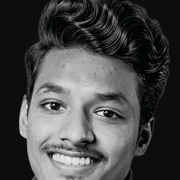
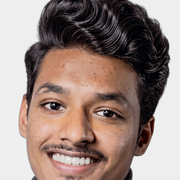
Switch portrait to the colour headshot everywhere
- seam-portrait.webp: background removed, 700px wide, lower edge faded
  in the file (hero on desktop, contact on mobile)
- favicon.png/.ico, favicon-192.png, apple-touch-icon.png: face crop on
  the site's light grey
- og-image.jpg: preview card re-rendered with the colour cut-out
- AGENTS.md: describe the source photo as a colour headshot

Claude-Session: https://claude.ai/code/session_01BgUoZHnXC1HSnGXGqqa1qu

diff --git a/AGENTS.md b/AGENTS.md
@@ -1,3 +1,3 @@
 # Project Rules
 
-- The hero portrait is a background-removed WebP at `src/assets/seam-portrait.webp` with its lower edge faded out in the file itself, and it must never be framed or show its original light-grey studio background. On desktop (lg and up) it stays anchored to the bottom edge of the `#home` section; below that it is hidden in the hero and instead shown once in the `#contact` section, directly after the "Let's Connect" heading. Why: the source photo is a black-and-white headshot on a light grey studio background, so any framed or un-faded placement reads as a bright rectangle pasted onto the near-black page, and small framed placements in the hero read poorly on phones.
+- The hero portrait is a background-removed WebP at `src/assets/seam-portrait.webp` with its lower edge faded out in the file itself, and it must never be framed or show its original light-grey studio background. On desktop (lg and up) it stays anchored to the bottom edge of the `#home` section; below that it is hidden in the hero and instead shown once in the `#contact` section, directly after the "Let's Connect" heading. Why: the source photo is a colour headshot on a light grey studio background, so any framed or un-faded placement reads as a bright rectangle pasted onto the near-black page, and small framed placements in the hero read poorly on phones.
